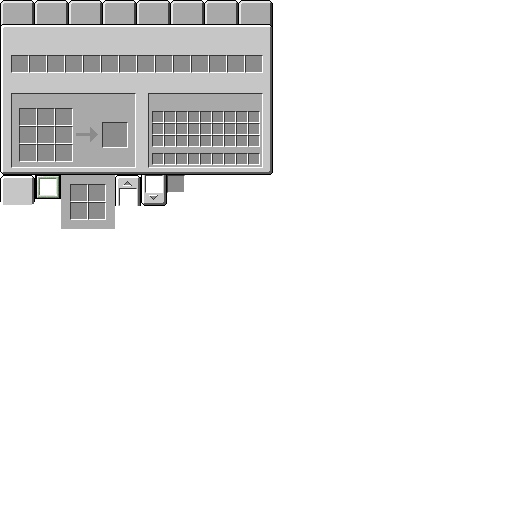
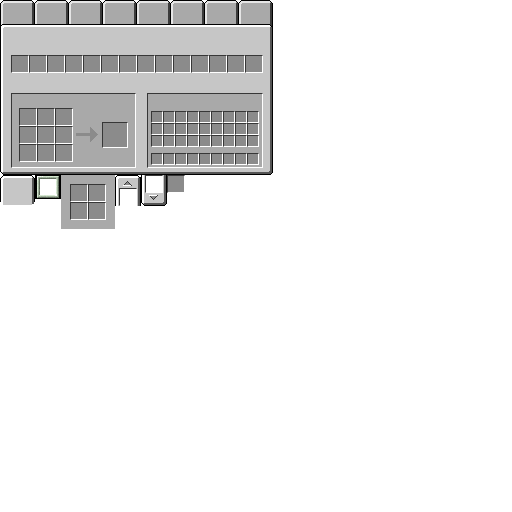
Centered Crafting Inventory Slots

Changed region(s): [[0.2812, 0.1875, 0.5312, 0.3438]]

diff --git a/src/main/java/useless/legacyui/Gui/GuiScreens/GuiLegacyCrafting.java b/src/main/java/useless/legacyui/Gui/GuiScreens/GuiLegacyCrafting.java
@@ -227,7 +227,7 @@ public class GuiLegacyCrafting extends GuiContainer {
         craftingButton.setMuted(true);
         controlList.add(craftingButton);
 
-        inventoryRegion = new GuiRegion(100,GUIx + 149, GUIy + 94, 115, 75);
+        inventoryRegion = new GuiRegion(100,GUIx + 147, GUIy + 94, 116, 75);
 
         // Static Initialization
         currentTab = 0;
@@ -291,7 +291,7 @@ public class GuiLegacyCrafting extends GuiContainer {
             UtilGui.drawTexturedModalRect(this, GUIx + 19, GUIy + 108, 61, 175, 54, 54, 1f/guiTextureWidth);
         }
 
-        drawStringCenteredNoShadow(fontRenderer, I18n.getInstance().translateKey("legacyui.guilabel.inventory"),GUIx + 205, GUIy + 97, ModSettings.Colors.GuiLabelColor());
+        drawStringCenteredNoShadow(fontRenderer, I18n.getInstance().translateKey("legacyui.guilabel.inventory"),GUIx + 204, GUIy + 97, ModSettings.Colors.GuiLabelColor());
 
         String craftingString; // Text above crafting table
         if (ModSettings.Gui.ShowCraftingItemNamePreview() && showCraftDisplay){ // If crafting display rendered and render item names enabled

diff --git a/src/main/java/useless/legacyui/Gui/Containers/LegacyContainerCrafting.java b/src/main/java/useless/legacyui/Gui/Containers/LegacyContainerCrafting.java
@@ -91,12 +91,12 @@ public class LegacyContainerCrafting extends Container {
         // 3x9 inventory
         for (baseIterator = 0; baseIterator < 3; ++baseIterator) {
             for (subIterator = 0; subIterator < 9; ++subIterator) {
-                this.addSlot(new SlotResizable(this.inventoryPlayer, subIterator + baseIterator * 9 + 9, 153 + subIterator * 12, 112 + baseIterator * 12, 12));
+                this.addSlot(new SlotResizable(this.inventoryPlayer, subIterator + baseIterator * 9 + 9, 152 + subIterator * 12, 112 + baseIterator * 12, 12));
             }
         }
         // 1x9 hotbar
         for (baseIterator = 0; baseIterator < 9; ++baseIterator) {
-            this.addSlot(new SlotResizable(this.inventoryPlayer, baseIterator, 153 + baseIterator * 12, 154, 12));
+            this.addSlot(new SlotResizable(this.inventoryPlayer, baseIterator, 152 + baseIterator * 12, 154, 12));
         }
 
         this.onCraftMatrixChanged(this.craftMatrix);

diff --git a/src/main/java/useless/legacyui/Mixins/ContainerMixin.java b/src/main/java/useless/legacyui/Mixins/ContainerMixin.java
@@ -11,6 +11,7 @@ import org.spongepowered.asm.mixin.injection.At;
 import org.spongepowered.asm.mixin.injection.Inject;
 import org.spongepowered.asm.mixin.injection.callback.CallbackInfoReturnable;
 import useless.legacyui.Gui.Slots.SlotNull;
+import useless.legacyui.LegacyUI;
 import useless.prismaticlibe.gui.slot.SlotCraftingDisplay;
 
 @Mixin(value = Container.class, remap = false)
